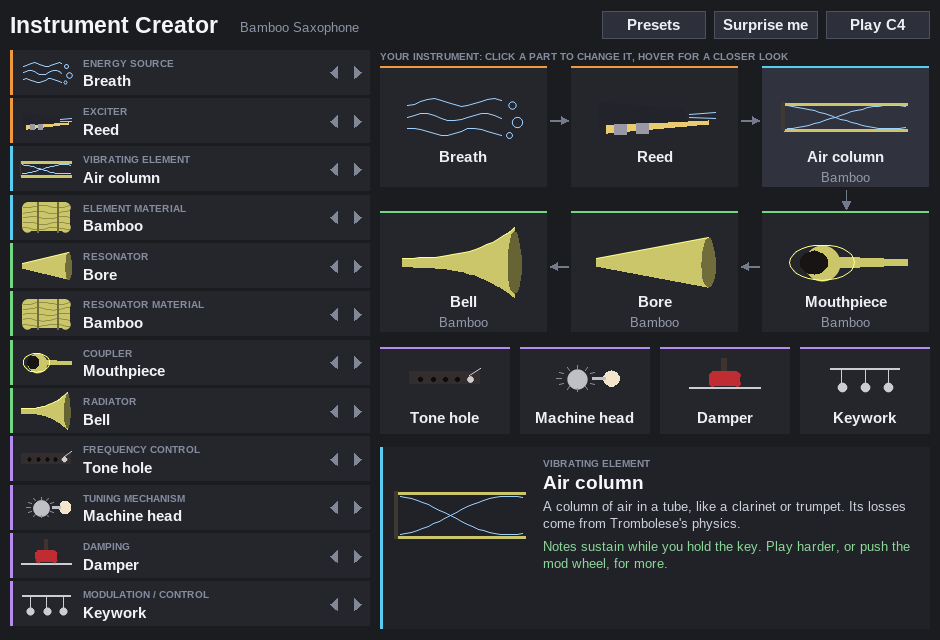
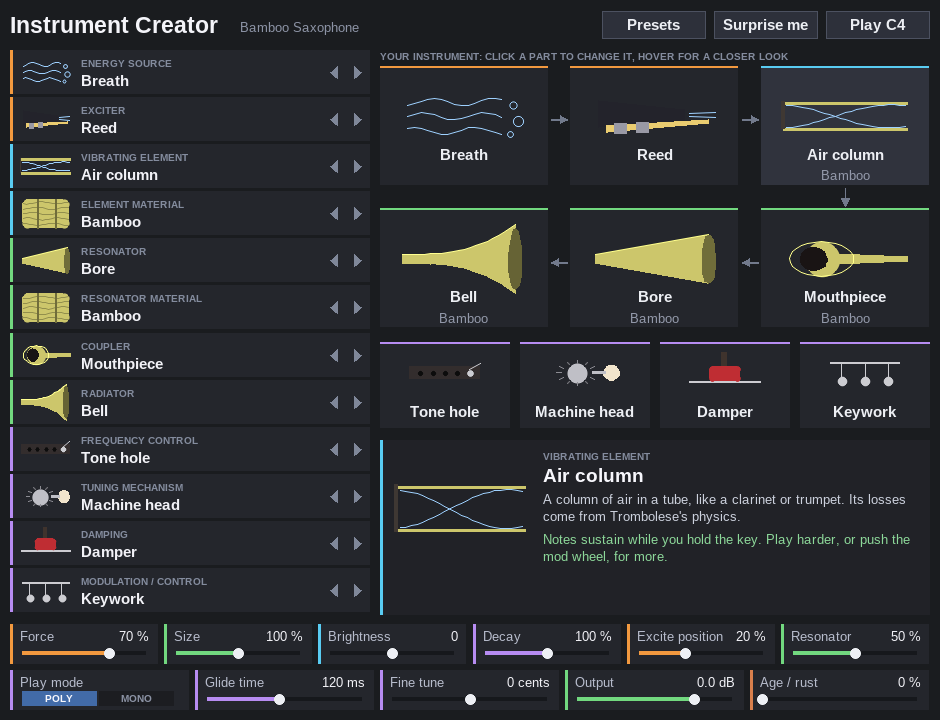
Move every control into the window; hide REAPER's slider list
REAPER drew the eleven continuous sliders above the window and took its
height. They are now hidden (still automatable) and drawn as a two-row
strip along the bottom: drag (Shift for fine), click to jump, wheel,
double-click to reset, and a Poly/Mono switch. Hovering a control explains
it in the preview panel. Default window 940x720. tools/click.cpp drives
the window with a mouse script to test the controls headlessly. ADR 0019.

Claude-Session: https://claude.ai/code/session_01966Y1F9JRCCcmhaqZoHP6T

diff --git a/tools/click.cpp b/tools/click.cpp
@@ -1,0 +1,45 @@
+// Drive the @gfx window with a mouse script and report what it changed.
+// usage: click fx.jsfx out.bgra|- width height step... [slider=value ...]
+// A step is one @gfx frame: "x,y,buttons[,mods[,wheel]]" (buttons: 1 left,
+// 4 right; mods: 1 shift, 2 ctrl, 4 alt), or "wait=MS" to let real time pass
+// (double-clicks are timed). Prints slider 13-23 values, and which sliders
+// the window changed, automated and touched.
+#include "ysfx.h"
+#include <chrono>
+#include <cstdio>
+#include <cstdlib>
+#include <cstring>
+#include <vector>
+static void logr(intptr_t, ysfx_log_level l, const char *m){ fprintf(stderr,"[%s] %s\n", ysfx_log_level_string(l), m); }
+static int32_t menu(void*, const char*, int32_t, int32_t){ return 0; }
+int main(int argc,char**argv){
+  if(argc<5){fprintf(stderr,"usage\n");return 1;}
+  ysfx_config_t*c=ysfx_config_new(); ysfx_set_log_reporter(c,&logr);
+  ysfx_guess_file_roots(c, argv[1]);
+  ysfx_t*fx=ysfx_new(c); ysfx_config_free(c);
+  if(!ysfx_load_file(fx,argv[1],0)){fprintf(stderr,"load failed\n");return 2;}
+  if(!ysfx_compile(fx,0)){fprintf(stderr,"compile failed\n");return 3;}
+  ysfx_set_sample_rate(fx,48000); ysfx_set_block_size(fx,256); ysfx_init(fx);
+  for(int i=5;i<argc;i++){ int idx; double v; if(!strchr(argv[i],',')&&strncmp(argv[i],"wait=",5)&&sscanf(argv[i],"%d=%lf",&idx,&v)==2) ysfx_slider_set_value(fx,idx-1,v,true); }
+  int w=atoi(argv[3]), h=atoi(argv[4]);
+  float z[256]={0}, o1[256], o2[256];
+  auto block=[&](){ const float*ins[2]={z,z}; float*outs[2]={o1,o2}; ysfx_process_float(fx,ins,outs,2,2,256); ysfx_midi_event_t mo; while(ysfx_receive_midi(fx,&mo)){} };
+  for(int b=0;b<20;b++) block();
+  std::vector<uint8_t> px((size_t)w*h*4, 0);
+  ysfx_gfx_config_t gc{}; gc.pixel_width=w; gc.pixel_height=h; gc.pixel_stride=4*w; gc.pixels=px.data(); gc.scale_factor=1.0; gc.show_menu=&menu;
+  ysfx_gfx_setup(fx,&gc);
+  ysfx_gfx_set_window_state(fx,true,true,true);
+  uint64_t chg=0, aut=0, tch=0;
+  for(int i=5;i<argc;i++){
+    int x,y,bt=0,md=0; double wh=0; int ms;
+    if(sscanf(argv[i],"wait=%d",&ms)==1){ auto t0=std::chrono::steady_clock::now(); while(std::chrono::steady_clock::now()-t0<std::chrono::milliseconds(ms)){} continue; }
+    if(sscanf(argv[i],"%d,%d,%d,%d,%lf",&x,&y,&bt,&md,&wh)<2) continue;
+    ysfx_gfx_update_mouse(fx,md,x,y,bt,wh,0); ysfx_gfx_run(fx); block();
+    chg|=ysfx_fetch_slider_changes(fx,0); aut|=ysfx_fetch_slider_automations(fx,0); tch|=ysfx_fetch_slider_touches(fx,0);
+  }
+  ysfx_gfx_update_mouse(fx,0,-1,-1,0,0,0); ysfx_gfx_run(fx);
+  for(int s=13;s<=23;s++) printf("%d=%g ", s, ysfx_slider_get_value(fx,s-1));
+  printf("\nchanged=%llx automated=%llx touched=%llx visible=%llx\n",(unsigned long long)chg,(unsigned long long)aut,(unsigned long long)tch,(unsigned long long)ysfx_get_slider_visibility(fx,0));
+  if(strcmp(argv[2],"-")){ FILE*fo=fopen(argv[2],"wb"); fwrite(px.data(),1,px.size(),fo); fclose(fo); }
+  ysfx_free(fx); return 0;
+}

diff --git a/tools/shot.py b/tools/shot.py
@@ -6,7 +6,7 @@ matplotlib.use("Agg")
 import matplotlib.image as mpimg
 HERE = os.path.dirname(os.path.abspath(__file__))
 out = sys.argv[1]
-w, h, mx, my = (sys.argv[2:6] + ["940", "640", "-1", "-1"][len(sys.argv[2:6]):])[:4]
+w, h, mx, my = (sys.argv[2:6] + ["940", "720", "-1", "-1"][len(sys.argv[2:6]):])[:4]
 extra = sys.argv[6:]
 with tempfile.TemporaryDirectory() as tmp:
     raw = os.path.join(tmp, "o.bgra")

diff --git a/docs/SESSION-LOG.md b/docs/SESSION-LOG.md
@@ -1,7 +1,7 @@
 # Session log
 
 **Session 1, 30 September 2026.** The whole of Instrument Creator so far was
-built in this one session, in seven requests:
+built in this one session, in eight requests:
 
 | # | Request | Result | Commits |
 |---|---|---|---|
@@ -12,6 +12,7 @@ built in this one session, in seven requests:
 | 5 | "It can be scientific, as you're the only one that will read it" | the guide rewritten as a technical reference; `docs/PARTS.md` merged into it and removed | `b9c7ffd` |
 | 6 | "Make sure all of the docs are up to date, then write me a prompt to continue in a fresh session" | docs checked against the code; this table and the handover below | `c42bd31` |
 | 7 | A screenshot of the plugin running in REAPER | window fitted to any height (REAPER's slider list takes space); FX-order note | `0e350d8` |
+| 8 | "Keep everything in one place" (move REAPER's sliders into the window), with REAPER's JSFX and API docs | all sliders hidden; a control strip in the window; `tools/click.cpp`; ADR 0019 | (see below) |
 
 What was built on: Trombolese and Reverberator, read from their
 repositories (read-only). What was measured, what failed and what was changed
@@ -254,9 +255,9 @@ against the code caught one wrong claim (the stretched-tuning range).
 
 Open items:
 
-- **Try it in REAPER.** Everything was verified in ysfx (same engine), not in
-  REAPER: the popup menus, clicking, automation and the window's size need a
-  check there.
+- **Try it in REAPER.** The window has been seen in REAPER (§16); the popup
+  menus, clicking, dragging the controls and automation have only been
+  checked in ysfx.
 - The most lossless steels bowed at exactly 1/5 or 1/3 of the string can
   flip to the octave.
 - Lips on a membrane: bone is 57 c flat, jelly 26 c sharp.
@@ -304,4 +305,36 @@ Two findings:
   says so.)
 
 Not yet confirmed in REAPER: menus, clicking, mouse wheel, automation.
+
+## 17. Every control in the window
+
+The user asked to keep everything in one place, and supplied REAPER's JSFX
+programming reference and API function list. From the reference: a slider
+whose name starts with `-` is hidden but still automatable; `slider(n)` is
+assignable; `slider_automate(mask)` records automation and
+`slider_automate(mask, 1)` (REAPER 6.74+) ends a touch; `time_precise()`
+gives the time for a double-click.
+
+- Sliders 13-23 now hidden like the part choices, so REAPER shows no slider
+  list and the window gets its whole height. Default size 940×720 (was 640),
+  so the area above the strip matches the old layout.
+- A strip of two rows along the bottom (`control()`, ADR 0019): Force, Size,
+  Brightness, Decay, Excite position, Resonator amount; Play mode (Poly/Mono
+  switch), Glide, Fine tune, Output, Age. Tracks fill from the left, or from
+  the middle for Brightness and Fine tune; each has its part's colour (Age
+  rust). Names shorten ("Position", "Resonator") when they would hit the
+  value. Hovering shows the control in the preview panel, with its part's
+  picture, value, description and how to use it.
+- The header's age note shortens to "(age N%)" or is left out when it would
+  run under the buttons (it did at 800 px wide).
+- `tools/click.cpp` (built by `build_host.sh`) runs a mouse script through
+  `@gfx` and prints sliders 13-23 and the changed/automated masks. Checked:
+  drag Force 70 → 19 by 63 px left (expected 0.70 − 63/124 = 0.19); a click on
+  Size's track at the far left jumps to 27; double-click resets Force 30 → 70,
+  two clicks 0.5 s apart do not; three wheel notches move Decay 100 → 118
+  (log track); a Shift-drag of 100 px moves Age by 6 (a tenth of the speed);
+  a click on the right half sets Mono. Every change is automated on the
+  right slider; REAPER's visible mask is 0.
+- Layout checked at 800×480 (cramped: tile names overlap their pictures),
+  800×560, 940×720 and 1200×860. No DSP change, so no re-trim or re-check.
 

diff --git a/CLAUDE.md b/CLAUDE.md
@@ -37,6 +37,7 @@ docs/window.png           screenshot used by the README (tools/shot.py)
 tools/build_host.sh       builds ysfx (with graphics) and three hosts into tools/build/
 tools/render.cpp          MIDI events file -> raw float32 stereo
 tools/shot.cpp            screenshot of @gfx (plays a note first); tools/shot.py -> PNG
+tools/click.cpp           drive @gfx with a mouse script; prints sliders 13-23 and automation flags
 tools/inspect.cpp         dump plugin memory after N blocks of a held note
 tools/analyse.py          render/measure helpers (LUFS, YIN pitch), the part and material name lists
 tools/sweep.py            every energy x exciter x element: level, pitch, flags
@@ -61,6 +62,11 @@ matplotlib`). `tools/build/` is git-ignored.
 19 play mode  20 glide time  21 fine tune  22 output  23 age / rust
 ```
 
+All 23 are hidden from REAPER's slider list (`-` before the name) and drawn
+in the window: 13-23 as the control strip (`control()`, ADR 0019), whose
+ranges, defaults and log midpoints are repeated in `ctl_min/max/def/mid`;
+change both.
+
 Option lists are append-only (ADR 0014): add new options and materials at the
 end, never reorder. Presets set sliders 1-19 and never touch Age.
 
@@ -73,7 +79,8 @@ python3 tools/sweep.py 60 > sweep.txt        # ~2 min; grep QUIET|TAIL|PITCH
 python3 tools/trims.py > t.txt && python3 tools/apply_trims.py t.txt   # repeat until ~0
 python3 tools/check.py                        # ~40 min: run in the background; must say 0 failure(s)
 python3 tools/age_test.py                     # ~10 min
-python3 tools/shot.py out.png 940 640 mx my 3=2 4=8   # then look at the PNG
+python3 tools/shot.py out.png 940 720 mx my 3=2 4=8   # then look at the PNG
+tools/build/click Instrument-Creator.jsfx - 940 720 103,649,0 103,649,1 40,649,1 40,649,0   # drag Force
 ```
 
 ## EEL2 traps (Reverberator ADR 0010, and new ones)
@@ -173,8 +180,9 @@ line A.
   depends on pressure).
 - Rubber, paper, cardboard, leather, jelly, PVC and cling film are less lossy
   than the real materials, so that they can be played.
-- First check in REAPER (macOS, Retina): the window renders as in ysfx. REAPER
-  draws its own slider list above `@gfx`, so the window gets less height than
-  requested (about 565 logical px); the layout must fit any height (it
-  reserves the preview panel first). Menus, clicking and automation in REAPER
-  are not yet confirmed.
+- First check in REAPER (macOS, Retina): the window renders as in ysfx.
+  REAPER draws any visible slider above `@gfx` and takes that height from the
+  window, which is why every slider is now hidden (ADR 0019). The layout
+  still fits any height (it reserves the preview panel first). Menus,
+  clicking, dragging and automation in REAPER are not yet confirmed (they
+  are tested in ysfx with `tools/click.cpp`).

diff --git a/README.md b/README.md
@@ -48,6 +48,11 @@ Reverberator makes a very good partner after it.
   that part, what it does, and (for materials) how stiff and heavy it is and
   how long it rings. The green line tells you how your combination will play,
   and the little screen shows the sound's waveform as you play.
+- **The controls along the bottom** (Force, Size, Brightness, Decay and the
+  rest, described [below](#the-controls)) shape how it plays. Drag one to
+  change it (hold **Shift** for small steps), roll the mouse wheel over it,
+  or double-click it to put it back to normal. Hover over one and the panel
+  explains what it does. Play mode is a switch: click Poly or Mono.
 - **Presets** has 19 ready-made instruments to start from. **Surprise me**
   picks every part at random. **Play C4** plays a note so you can hear a change
   without touching your keyboard.
@@ -193,9 +198,9 @@ material (and PVC for the resonator too, if you like).
 | | Levers | Mod wheel bends notes up by as much as a whole tone. |
 | | Electronics | Mod wheel adds vibrato and tremolo. |
 
-## The sliders
+## The controls
 
-| Slider | What it does |
+| Control | What it does |
 |---|---|
 | **Force / pressure** | How hard it is blown, bowed or struck. |
 | **Size** | Scales the resonator, coupler and radiator: bigger is lower and boomier. |
@@ -232,8 +237,11 @@ old one is only a few dB quieter than a new one. Presets don't change the
 Age slider, so you can make any preset old. Changes to Age apply to the next
 note you play; the tuning wander and the leaks act on notes already playing.
 
-The part choices are also sliders, hidden from the slider list because the
-window shows them, but you can still automate them in REAPER.
+Everything you can change is in the window, so REAPER's own list of
+sliders is hidden (it would otherwise sit above the window and squash it).
+Every part choice and every control can still be automated: in REAPER, use
+the track's envelope button or the **Param** menu at the top of the FX
+window.
 
 ## MIDI
 

diff --git a/docs/adr/0019-every-control-in-the-window-reaper-sliders-hidden.md b/docs/adr/0019-every-control-in-the-window-reaper-sliders-hidden.md
@@ -1,0 +1,36 @@
+# 0019. Every control in the window, REAPER's slider list hidden
+
+- Status: Accepted
+- Date: 2026-10-01
+
+## Context
+
+The first run in REAPER showed REAPER's generic slider list (the eleven
+continuous controls, sliders 13-23) drawn above the `@gfx` window, taking
+about 75 px of its height and splitting the instrument across two kinds of
+UI. The user asked for everything in one place.
+
+## Decision
+
+Sliders 13-23 are hidden (`-` before the name), like the part choices, and
+the window draws them as a strip of two rows along the bottom (`control()` in
+`@gfx`): six sound controls, then play mode, glide, fine tune, output and
+age. Each is a horizontal track: click away from the handle to jump, drag
+(relative; Shift for a tenth of the speed), wheel to step, double-click
+(`time_precise`, 0.35 s) to reset to the slider's default; Play mode is a
+two-way switch. Log controls (size, decay, glide) map the track's middle to
+`ctl_mid` and are log on each half. Every change writes `slider(13 + k)`,
+calls `slider_automate` (and ends the touch on mouse-up with
+`slider_automate(mask, 1)`), and sets `gui_dirty` so `@block` re-runs
+`update_globals`. Hovering a control shows its description in the preview
+panel. The default window grows from 940×640 to 940×720 to hold the strip.
+
+## Consequences
+
+- REAPER gives the window its full height; no slider list to scroll.
+- All 23 parameters stay automatable and keep their indices, ranges and
+  defaults, so saved projects and presets are unaffected (ADR 0014).
+- The control ranges, defaults and log midpoints are written twice (the
+  `sliderN:` lines and `ctl_min/ctl_max/ctl_def/ctl_mid`); change both.
+- `tools/click.cpp` drives the window with a mouse script and reports the
+  slider values and automation flags, so the controls are tested headlessly.

diff --git a/docs/PARTS-AND-MATERIALS.md b/docs/PARTS-AND-MATERIALS.md
@@ -68,7 +68,9 @@ nonlinearity and the limiter, all feed-forward.
   only global written by both is `aud_req`.
 - Globals derived from sliders are recomputed by `update_globals` in
   `@slider`, and in `@block` when the window has changed a slider
-  (`gui_dirty`). Part changes take effect at the next note-on (per-voice
+  (`gui_dirty`). All 23 sliders are hidden in REAPER; the window's part list
+  and control strip set them with `slider(n) = v; slider_automate(2^(n-1))`
+  (ADR 0019). Part changes take effect at the next note-on (per-voice
   setup is done in `voice_start`), except shared-stage filters and the
   controls, which are global.
 
@@ -759,7 +761,7 @@ violin lost 7 dB and the piano 8 dB; blown instruments gain level with age
 | Loudness spread across parts | < 0.2 dB (except capped) |
 | CPU, 8-note chords at 48 kHz | reed 3 %, struck plate 7 %, bowed string 8 %, bowed plate 14 % of one core; worst sweep case 27.5 % (3 notes, 96 kHz) |
 | Playing behaviour | Mono slide C4→E4 ≈ 150 ms; bend and Levers reach D4 (293.2 Hz); sustain pedal holds; Electronics vibrato at 5.5 Hz |
-| GUI | screenshots of every option and material, and of Age (`tools/shot.py`); rendered in REAPER on macOS (Retina) as in ysfx; layout checked at 800×480, 966×565, 940×640, 1200×800 |
+| GUI | screenshots of every option and material, and of Age (`tools/shot.py`); rendered in REAPER on macOS (Retina) as in ysfx; layout checked at 800×480, 800×560, 966×565, 940×720, 1200×860; the control strip's drag, jump, Shift-drag, wheel, double-click reset and Poly/Mono switch checked with `tools/click.cpp` (values and automation flags) |
 
 ---
 

diff --git a/docs/adr/README.md b/docs/adr/README.md
@@ -28,6 +28,7 @@ where useful the alternatives that were rejected.
 | [0016](0016-rattle-and-crackle-as-feed-forward-effects-gated.md) | Rattle and crackle as feed-forward effects gated by level |
 | [0017](0017-the-reed-always-plays-a-cylinder.md) | The reed always plays a cylinder |
 | [0018](0018-age-is-one-macro-over-the-existing-physics.md) | Age is one macro over the existing physics |
+| [0019](0019-every-control-in-the-window-reaper-sliders-hidden.md) | Every control in the window, REAPER's slider list hidden |
 
 Related: Reverberator's ADRs 0001 (JSFX first), 0002 (physical constants),
 0005 (dispersion budget), 0007 (loudness), 0008 (feed-forward nonlinear paths),

diff --git a/docs/adr/0012-a-window-drawn-entirely-in-code.md b/docs/adr/0012-a-window-drawn-entirely-in-code.md
@@ -17,7 +17,9 @@ materials have textures (grain, veins, cracks, weave, rust with age). The
 window lists the twelve choices (menu, arrows, wheel), draws the instrument
 as its signal chain, and previews the hovered part with a description, the
 material's numbers and a live waveform. The part choices are hidden sliders
-(still automatable); the continuous controls are ordinary sliders.
+(still automatable). The continuous controls were ordinary sliders at first;
+since [ADR 0019](0019-every-control-in-the-window-reaper-sliders-hidden.md)
+they are hidden too and drawn in the window.
 
 ## Consequences
 
